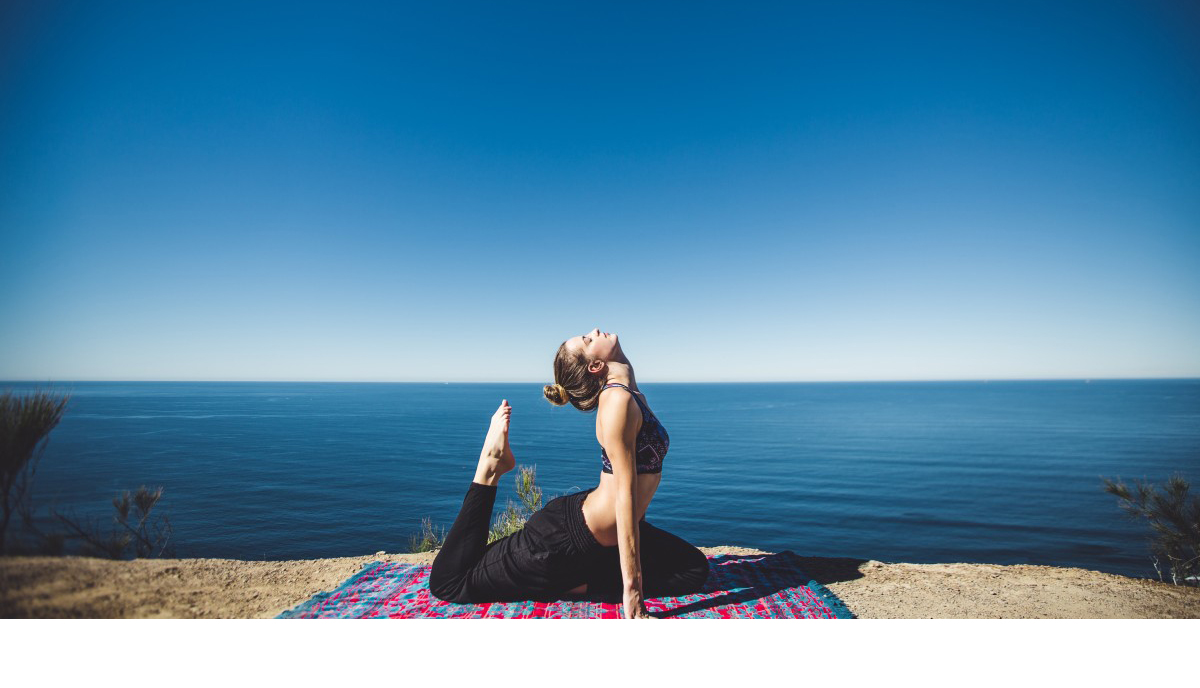
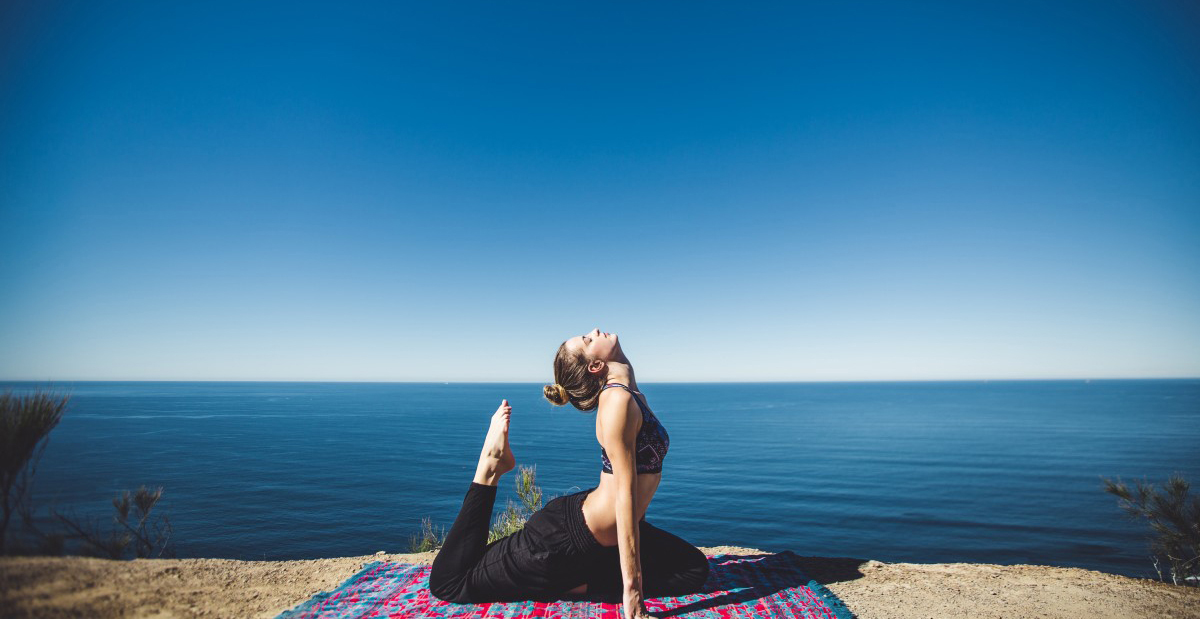
renomeia pra rosto

diff --git a/js/function.js b/js/function.js
@@ -90,58 +90,58 @@ function switchPages(e) {
 		switch (patt1.exec(selector)[0]) {				
 			case '01':
 				resetHover();							
-				$('<style> #navigation li:hover:not(.selected) {color:#593a7a} #navigation .selected {color:#593a7a} </style>').appendTo('head');
+				//$('<style> #navigation li:hover:not(.selected) {color:#593a7a} #navigation .selected {color:#593a7a} </style>').appendTo('head');
 				$("#menuSection > #li01").addClass("selected").removeClass("allowHover");										
-				$('#arrowLi #arrowP01').delay(1000).animate({ opacity : 1 , top : 55 }, 400, 'easeInOutExpo');	
-				$('#hoverLi #overP01').delay(1000).animate({ opacity : 1 , width : 42 , left : -693 }, 500, 'easeOutElastic');
+				$('#page01').delay(1000).animate({ opacity : 1 , top : 55 }, 400, 'easeInOutExpo');	
+				//$('#hoverLi #overP01').delay(1000).animate({ opacity : 1 , width : 42 , left : -693 }, 500, 'easeOutElastic');
 				break;
 			
 			case '02':
 				resetHover();					
-				$('<style> #navigation li:hover:not(.selected) {color:#02627c} #navigation .selected {color:#02627c} </style>').appendTo('head');
+				//$('<style> #navigation li:hover:not(.selected) {color:#02627c} #navigation .selected {color:#02627c} </style>').appendTo('head');
 				$("#menuSection > #li02").addClass("selected").removeClass("allowHover");							
-				$('#arrowLi #arrowP02').delay(1000).animate({ opacity : 1 , top : 55 }, 400, 'easeInOutExpo');						
-				$('#hoverLi #overP02').delay(1000).animate({ opacity : 1 , width : 62 , left : -631 }, 500, 'easeOutElastic');										
+				$('#page02').delay(1000).animate({ opacity : 1 , top : 55 }, 400, 'easeInOutExpo');						
+				//$('#hoverLi #overP02').delay(1000).animate({ opacity : 1 , width : 62 , left : -631 }, 500, 'easeOutElastic');										
 				break;
 				
 			case '03':
 				resetHover();								
-				$('<style> #navigation li:hover:not(.selected) {color:#c16d00} #navigation .selected {color:#c16d00} </style>').appendTo('head');
+				//$('<style> #navigation li:hover:not(.selected) {color:#c16d00} #navigation .selected {color:#c16d00} </style>').appendTo('head');
 				$("#menuSection > #li03").addClass("selected").removeClass("allowHover");									
-				$('#arrowLi #arrowP03').delay(1000).animate({ opacity : 1 , top : 55 }, 400, 'easeInOutExpo');					
-				$('#hoverLi #overP03').delay(1000).animate({ opacity : 1 , width : 102 , left : -549 }, 500, 'easeOutElastic');			
+				$('#page03').delay(1000).animate({ opacity : 1 , top : 55 }, 400, 'easeInOutExpo');					
+				//$('#hoverLi #overP03').delay(1000).animate({ opacity : 1 , width : 102 , left : -549 }, 500, 'easeOutElastic');			
 				break;
 				
 			case '04':
 				resetHover();
-				$('<style> #navigation li:hover:not(.selected) {color:#a12701} #navigation .selected {color:#a12701} </style>').appendTo('head');
+				//$('<style> #navigation li:hover:not(.selected) {color:#a12701} #navigation .selected {color:#a12701} </style>').appendTo('head');
 				$("#menuSection > #li04").addClass("selected").removeClass("allowHover");							
-				$('#arrowLi #arrowP04').delay(1000).animate({ opacity : 1 , top : 55 }, 400, 'easeInOutExpo');					
-				$('#hoverLi #overP04').delay(1000).animate({ opacity : 1 , width : 75 , left : -427 }, 500, 'easeOutElastic');					
+				$('#page04').delay(1000).animate({ opacity : 1 , top : 55 }, 400, 'easeInOutExpo');					
+				//$('#hoverLi #overP04').delay(1000).animate({ opacity : 1 , width : 75 , left : -427 }, 500, 'easeOutElastic');					
 				break;
 
 			case '05':
 				resetHover();								
-				$('<style> #navigation li:hover:not(.selected) {color:#bcb134} #navigation .selected {color:#bcb134} </style>').appendTo('head');
+				//$('<style> #navigation li:hover:not(.selected) {color:#bcb134} #navigation .selected {color:#bcb134} </style>').appendTo('head');
 				$("#menuSection > #li05").addClass("selected").removeClass("allowHover");									
-				$('#arrowLi #arrowP05').delay(1000).animate({ opacity : 1 , top : 55 }, 400, 'easeInOutExpo');					
-				$('#hoverLi #overP05').delay(1000).animate({ opacity : 1 , width : 84 , left : -333 }, 500, 'easeOutElastic');			
+				$('#page05').delay(1000).animate({ opacity : 1 , top : 55 }, 400, 'easeInOutExpo');					
+				//$('#hoverLi #overP05').delay(1000).animate({ opacity : 1 , width : 84 , left : -333 }, 500, 'easeOutElastic');			
 				break;
 
 			case '06':
 				resetHover();								
-				$('<style> #navigation li:hover:not(.selected) {color:#593a7a} #navigation .selected {color:#593a7a} </style>').appendTo('head');
+				//$('<style> #navigation li:hover:not(.selected) {color:#593a7a} #navigation .selected {color:#593a7a} </style>').appendTo('head');
 				$("#menuSection > #li06").addClass("selected").removeClass("allowHover");									
-				$('#arrowLi #arrowP06').delay(1000).animate({ opacity : 1 , top : 55 }, 400, 'easeInOutExpo');					
-				$('#hoverLi #overP06').delay(1000).animate({ opacity : 1 , width : 122 , left : -228 }, 500, 'easeOutElastic');			
+				$('#page06').delay(1000).animate({ opacity : 1 , top : 55 }, 400, 'easeInOutExpo');					
+				//$('#hoverLi #overP06').delay(1000).animate({ opacity : 1 , width : 122 , left : -228 }, 500, 'easeOutElastic');			
 				break;
 
 			case '07':
 				resetHover();								
-				$('<style> #navigation li:hover:not(.selected) {color:#a12701} #navigation .selected {color:#a12701} </style>').appendTo('head');
+				//$('<style> #navigation li:hover:not(.selected) {color:#a12701} #navigation .selected {color:#a12701} </style>').appendTo('head');
 				$("#menuSection > #li07").addClass("selected").removeClass("allowHover");									
-				$('#arrowLi #arrowP07').delay(1000).animate({ opacity : 1 , top : 55 }, 400, 'easeInOutExpo');					
-				$('#hoverLi #overP07').delay(1000).animate({ opacity : 1 , width : 62 , left : -85 }, 500, 'easeOutElastic');			
+				$('#page07').delay(1000).animate({ opacity : 1 , top : 55 }, 400, 'easeInOutExpo');					
+				//$('#hoverLi #overP07').delay(1000).animate({ opacity : 1 , width : 62 , left : -85 }, 500, 'easeOutElastic');			
 				break;
 			}
 			
@@ -204,58 +204,58 @@ function onClickHandler(e) {
 			switch (patt1.exec(e.target.parentNode.id)[0]) {				
 				case '01':					
 					resetHover();												
-					$('<style> #navigation li:hover:not(.selected) {color:#593a7a} #navigation .selected {color:#593a7a} </style>').appendTo('head');
+					//$('<style> #navigation li:hover:not(.selected) {color:#593a7a} #navigation .selected {color:#593a7a} </style>').appendTo('head');
 					$("#menuSection > #li01").addClass("selected").removeClass("allowHover");										
-					$('#arrowLi #arrowP01').delay(1000).animate({ opacity : 1 , top : 55 }, 400, 'easeInOutExpo');	
-					$('#hoverLi #overP01').delay(1000).animate({ opacity : 1 , width : 42 , left : -693 }, 500, 'easeOutElastic');
+					$('#page01').delay(1000).animate({ opacity : 1 , top : 55 }, 400, 'easeInOutExpo');	
+					//$('#hoverLi #overP01').delay(1000).animate({ opacity : 1 , width : 42 , left : -693 }, 500, 'easeOutElastic');
 					break;
 					
 				case '02':
 					resetHover();
-					$('<style> #navigation li:hover:not(.selected) {color:#02627c} #navigation .selected {color:#02627c} </style>').appendTo('head');
+					//$('<style> #navigation li:hover:not(.selected) {color:#02627c} #navigation .selected {color:#02627c} </style>').appendTo('head');
 					$("#menuSection > #li02").addClass("selected").removeClass("allowHover");							
-					$('#arrowLi #arrowP02').delay(1000).animate({ opacity : 1 , top : 55 }, 400, 'easeInOutExpo');						
-					$('#hoverLi #overP02').delay(1000).animate({ opacity : 1 , width : 62 , left : -631 }, 500, 'easeOutElastic');	
+					$('#page02').delay(1000).animate({ opacity : 1 , top : 55 }, 400, 'easeInOutExpo');						
+					//$('#hoverLi #overP02').delay(1000).animate({ opacity : 1 , width : 62 , left : -631 }, 500, 'easeOutElastic');	
 					break;
 					
 				case '03':
 					resetHover();									
-					$('<style> #navigation li:hover:not(.selected) {color:#c16d00} #navigation .selected {color:#c16d00} </style>').appendTo('head');
+					//$('<style> #navigation li:hover:not(.selected) {color:#c16d00} #navigation .selected {color:#c16d00} </style>').appendTo('head');
 					$("#menuSection > #li03").addClass("selected").removeClass("allowHover");									
-					$('#arrowLi #arrowP03').delay(1000).animate({ opacity : 1 , top : 55 }, 400, 'easeInOutExpo');					
-					$('#hoverLi #overP03').delay(1000).animate({ opacity : 1 , width : 102 , left : -549 }, 500, 'easeOutElastic');			
+					$('#page03').delay(1000).animate({ opacity : 1 , top : 55 }, 400, 'easeInOutExpo');					
+					//$('#hoverLi #overP03').delay(1000).animate({ opacity : 1 , width : 102 , left : -549 }, 500, 'easeOutElastic');			
 					break;
 					
 				case '04':
 					resetHover();
-					$('<style> #navigation li:hover:not(.selected) {color:#ca6eb6} #navigation .selected {color:#ca6eb6} </style>').appendTo('head');
+					//$('<style> #navigation li:hover:not(.selected) {color:#ca6eb6} #navigation .selected {color:#ca6eb6} </style>').appendTo('head');
 					$("#menuSection > #li04").addClass("selected").removeClass("allowHover");							
-					$('#arrowLi #arrowP04').delay(1000).animate({ opacity : 1 , top : 55 }, 400, 'easeInOutExpo');					
-					$('#hoverLi #overP04').delay(1000).animate({ opacity : 1 , width : 75 , left : -427 }, 500, 'easeOutElastic');					
+					$('#page04').delay(1000).animate({ opacity : 1 , top : 55 }, 400, 'easeInOutExpo');					
+					//$('#hoverLi #overP04').delay(1000).animate({ opacity : 1 , width : 75 , left : -427 }, 500, 'easeOutElastic');					
 					break;
 	
 				case '05':
 					resetHover();								
-					$('<style> #navigation li:hover:not(.selected) {color:#bcb134} #navigation .selected {color:#bcb134} </style>').appendTo('head');
+					//$('<style> #navigation li:hover:not(.selected) {color:#bcb134} #navigation .selected {color:#bcb134} </style>').appendTo('head');
 					$("#menuSection > #li05").addClass("selected").removeClass("allowHover");									
-					$('#arrowLi #arrowP05').delay(1000).animate({ opacity : 1 , top : 55 }, 400, 'easeInOutExpo');					
-					$('#hoverLi #overP05').delay(1000).animate({ opacity : 1 , width : 84 , left : -333 }, 500, 'easeOutElastic');			
+					$('#page05').delay(1000).animate({ opacity : 1 , top : 55 }, 400, 'easeInOutExpo');					
+					//$('#hoverLi #overP05').delay(1000).animate({ opacity : 1 , width : 84 , left : -333 }, 500, 'easeOutElastic');			
 					break;
 
 				case '06':
 					resetHover();								
-					$('<style> #navigation li:hover:not(.selected) {color:#593a7a} #navigation .selected {color:#593a7a} </style>').appendTo('head');
+					//$('<style> #navigation li:hover:not(.selected) {color:#593a7a} #navigation .selected {color:#593a7a} </style>').appendTo('head');
 					$("#menuSection > #li06").addClass("selected").removeClass("allowHover");									
-					$('#arrowLi #arrowP06').delay(1000).animate({ opacity : 1 , top : 55 }, 400, 'easeInOutExpo');					
-					$('#hoverLi #overP06').delay(1000).animate({ opacity : 1 , width : 122 , left : -228 }, 500, 'easeOutElastic');			
+					$('#page06').delay(1000).animate({ opacity : 1 , top : 55 }, 400, 'easeInOutExpo');					
+					//$('#hoverLi #overP06').delay(1000).animate({ opacity : 1 , width : 122 , left : -228 }, 500, 'easeOutElastic');			
 					break;
 
 				case '07':
 					resetHover();								
-					$('<style> #navigation li:hover:not(.selected) {color:#a12701} #navigation .selected {color:#a12701} </style>').appendTo('head');
+					//$('<style> #navigation li:hover:not(.selected) {color:#a12701} #navigation .selected {color:#a12701} </style>').appendTo('head');
 					$("#menuSection > #li07").addClass("selected").removeClass("allowHover");									
-					$('#arrowLi #arrowP07').delay(1000).animate({ opacity : 1 , top : 55 }, 400, 'easeInOutExpo');					
-					$('#hoverLi #overP07').delay(1000).animate({ opacity : 1 , width : 62 , left : -85 }, 500, 'easeOutElastic');			
+					$('#page07').delay(1000).animate({ opacity : 1 , top : 55 }, 400, 'easeInOutExpo');					
+					//$('#hoverLi #overP07').delay(1000).animate({ opacity : 1 , width : 62 , left : -85 }, 500, 'easeOutElastic');			
 					break;
 				}
 						

diff --git a/index3.html b/index3.html
@@ -23,9 +23,9 @@
       <ul id="menuSection" class="right hide-on-med-and-down">
         <li id="li01"><a href="#">M&eacute;todoPlan</a></li>
         <li id="li02"><a href="#Detophyll">Detophyll</a></li>
-        <li id="li02"><a href="#Quitoplan">Quitoplan</a></li>
-        <li id="li03"><a href="#Colastrina">Colastrina</a></li>
-        <li id="li04"><a href="#Contato">Contato</a></li>
+        <li id="li03"><a href="#Quitoplan">Quitoplan</a></li>
+        <li id="li04"><a href="#Colastrina">Colastrina</a></li>
+        <li id="li05"><a href="#Contato">Contato</a></li>
       </ul>
 
       <a href="#" data-target="nav-mobile" class="sidenav-trigger"><i class="material-icons">menu</i></a>
@@ -54,7 +54,7 @@
     <div class="parallax"><img src="img/freebird.jpg" alt="Mulher fazendo Ioga na natureza"></div>
   </div>
 
-<div class="parallax-container valign-wrapper">
+<div class="parallax-container valign-wrapper" id="page01">
       <div class="container" style="min-height: 700px!important;">
 
           <div class="row">
@@ -95,7 +95,7 @@
         </div>
   </div> 
 
-      <div class="parallax-container valign-wrapper">
+      <div class="parallax-container valign-wrapper" id="page02">
           <div class="container" style="min-height: 700px!important;">
             <div class="row center">
                 <h3 class="header col s12 light"><!-- O Método de Emagrecimento Rápido e Completo! --></h3>
@@ -178,7 +178,7 @@
         </div>
 
       </div>
-    <div class="parallax"><img src="img/c.png" alt="Unsplashed background img 2"></div>
+    <div class="parallax"><img src="img/rosto.png" alt="Unsplashed background img 2"></div>
   </div>
 
   <div class="container" style="min-height: 700px!important;">
@@ -197,6 +197,7 @@
   <script src="https://code.jquery.com/jquery-2.1.1.min.js"></script>
   <script src="js/materialize.js"></script>
   <script src="js/init.js"></script>
+  <script src="js/function.js"></script>
 
   </body>
 </html>
